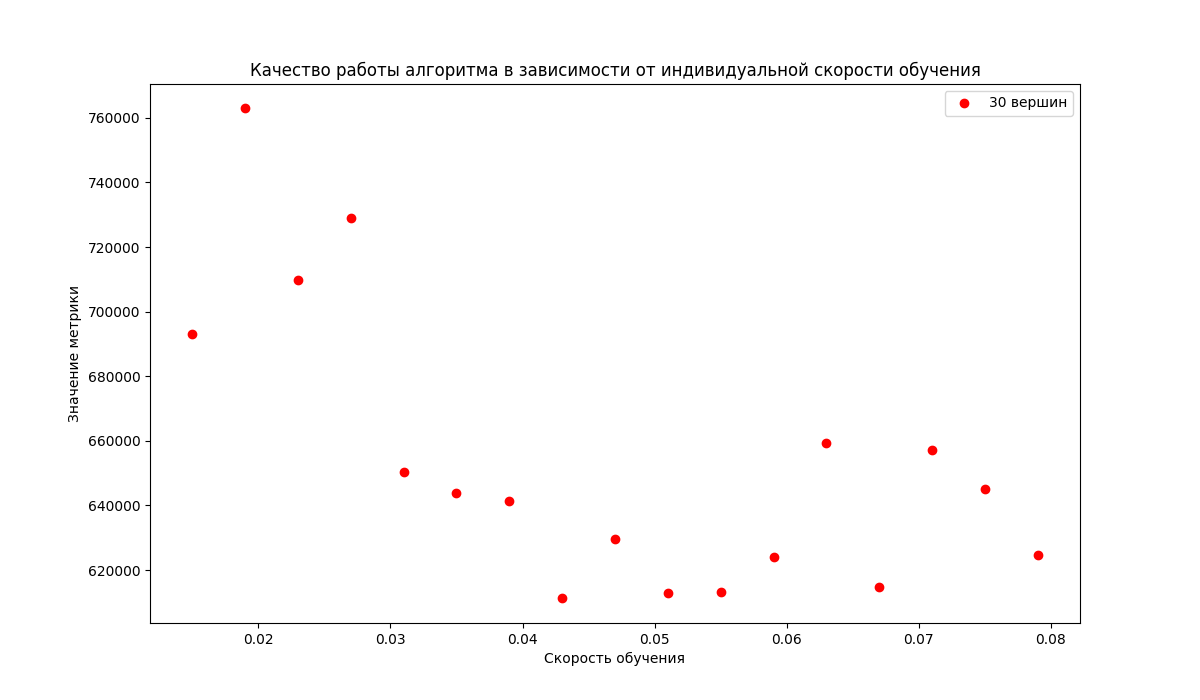
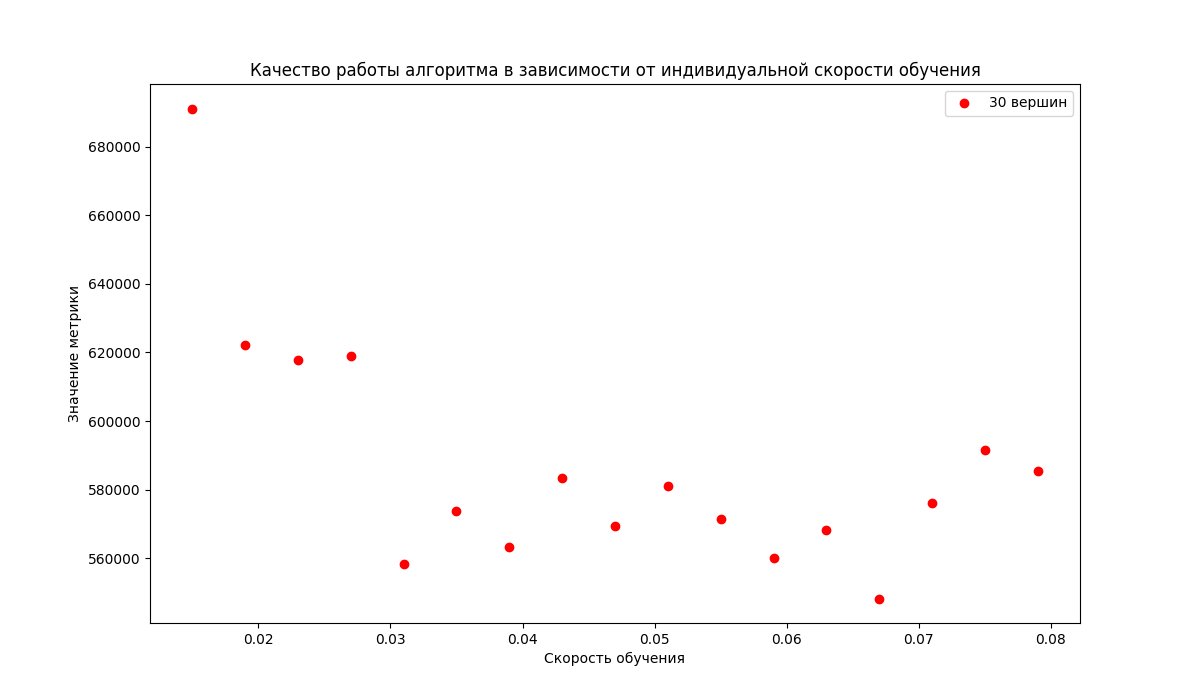
feat: make all result representation

diff --git a/hyperparameter_tuning.py b/hyperparameter_tuning.py
@@ -5,6 +5,8 @@ import subprocess
 from subprocess import check_output
 import matplotlib.pylab as plt
 import math
+import numpy as np
+
 
 TESTS_DIR = "TestGenerator\\tests"
 ALGO_SOLVER_PATH = "VRP.FGA_2022\\VRP.FGA_2022.exe"
@@ -12,7 +14,7 @@ RESULTS_DIR = "RESULTS"
 
 
 GLOBAL_LEARNING_RATE = 0.1
-ITERATION_COUNT = 300
+ITERATION_COUNT = 500
 
 
 
@@ -75,7 +77,7 @@ def make_research(test_path, vertexCount):
 
     dr_exponent_value = get_exponent_pow(1 / vertexCount) - 2
     dr_left_border_digit = 1
-    dr_right_border_digit = 22
+    dr_right_border_digit = 20
     dr_step_digit = 2
 
     ilr_exponent_value = dr_exponent_value + 1
@@ -96,6 +98,38 @@ def make_research(test_path, vertexCount):
     return results
 
 
+
+def norm2(value, min, max):
+    return (value) / (max)
+
+def group_results(results):
+    if (len(results) == 0):
+        return []
+
+    grouped_result = np.zeros(len(results[0]))
+
+    for result in results:
+        result = np.array(result)
+        temp = result[:, 0]
+
+        mx = np.max(temp)
+        mn = np.min(temp)
+
+        normilized_metric_values = [norm2(elem, mn, mx) for elem in temp]
+        grouped_result += np.array(normilized_metric_values)
+
+    result = results[0];
+    x = np.array(result)[:, 1]
+
+    answer = []
+    for i in range(len(x)):
+        answer.append([grouped_result[i], x[i]])
+
+    # print(answer)
+
+    return answer
+
+
 def main():
     # test_filenames = os.listdir(TESTS_DIR)
     vertex_folder_pathes = [os.path.join(TESTS_DIR, filename) for filename in os.listdir(TESTS_DIR)]
@@ -103,7 +137,7 @@ def main():
     for vertex_folder_path in vertex_folder_pathes:
         vertex_count = int(vertex_folder_path.split('\\')[-1])
 
-        if (vertex_count != 100):
+        if (vertex_count != 30):
             continue
 
         # print(sz)
@@ -111,8 +145,12 @@ def main():
                                os.listdir(vertex_folder_path)]
         # print(current_test_pathes)
 
+        vertex_results = []
+
         for test_path in current_test_pathes:
             research_result = make_research(test_path, vertex_count)
+            
+            vertex_results.append(research_result)
 
             test_filename = test_path.split('\\')[-1]
             last_point_pos = test_filename.rindex('.')
@@ -134,7 +172,21 @@ def main():
             plot_file_path = file_path_template + '_plot.png'
             # draw plots
             draw_data(research_result, plot_file_path, vertex_count)
+        
+        
+        # plot_file_path = file_path_template + '_plot.png'
+        # draw plots
+        # draw_data(research_result, plot_file_path, vertex_count)
 
+
+        grouped_data = group_results(vertex_results)        
+        
+        file_path_template = os.path.join(RESULTS_DIR, str(vertex_count), str(vertex_count))
+        plot_file_path = file_path_template + '_plot.png'
+
+        draw_data(grouped_data, plot_file_path, vertex_count)
+
+        break
 
 if __name__ == "__main__":
     main()

diff --git a/TestGenerator/graph_plot.py b/TestGenerator/graph_plot.py
@@ -5,9 +5,19 @@ import sys
 TESTS_DIR = "tests"
 
 def printGraph(file_path):
+    print(file_path)
+    
+    points = []
+    
     with open(file_path, 'r' ,encoding = 'utf-8') as f:
         vertexCount = int(f.readline())
-        print(vertexCount)
+        
+        for i in range(vertexCount):
+            pts = list(map(float, f.readline().split(' ')));
+            points.append((pts)) 
+    
+    plt.scatter([x[0] for x in points], [x[1] for x in points], cmap='hot', marker=".")
+    plt.show()
 
 
 def main():
@@ -23,9 +33,12 @@ def main():
         current_test_pathes = [os.path.join(vertex_folder_path, filename) for filename in
                                os.listdir(vertex_folder_path)]
 
-        for test_path in current_test_pathes:
+        for test_path in current_test_pathes:    
+            test_name = test_path.split('\\')[-1]
+            if (test_name.find('special') == -1):
+                continue
+        
             printGraph(test_path)
-            # print(test_path)
             
             # research_result = make_research(test_path, vertex_count)
 
